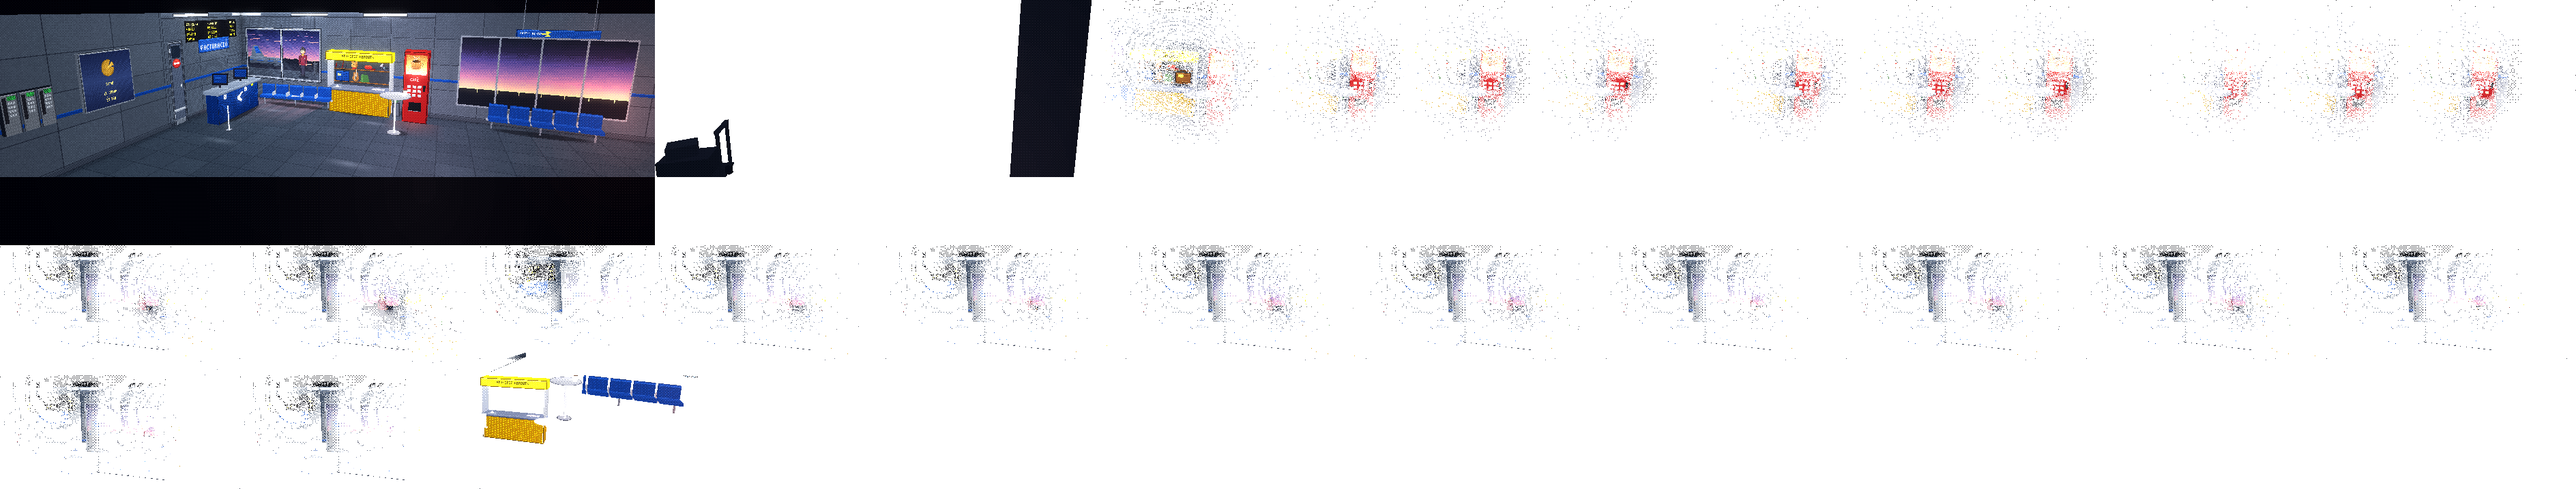
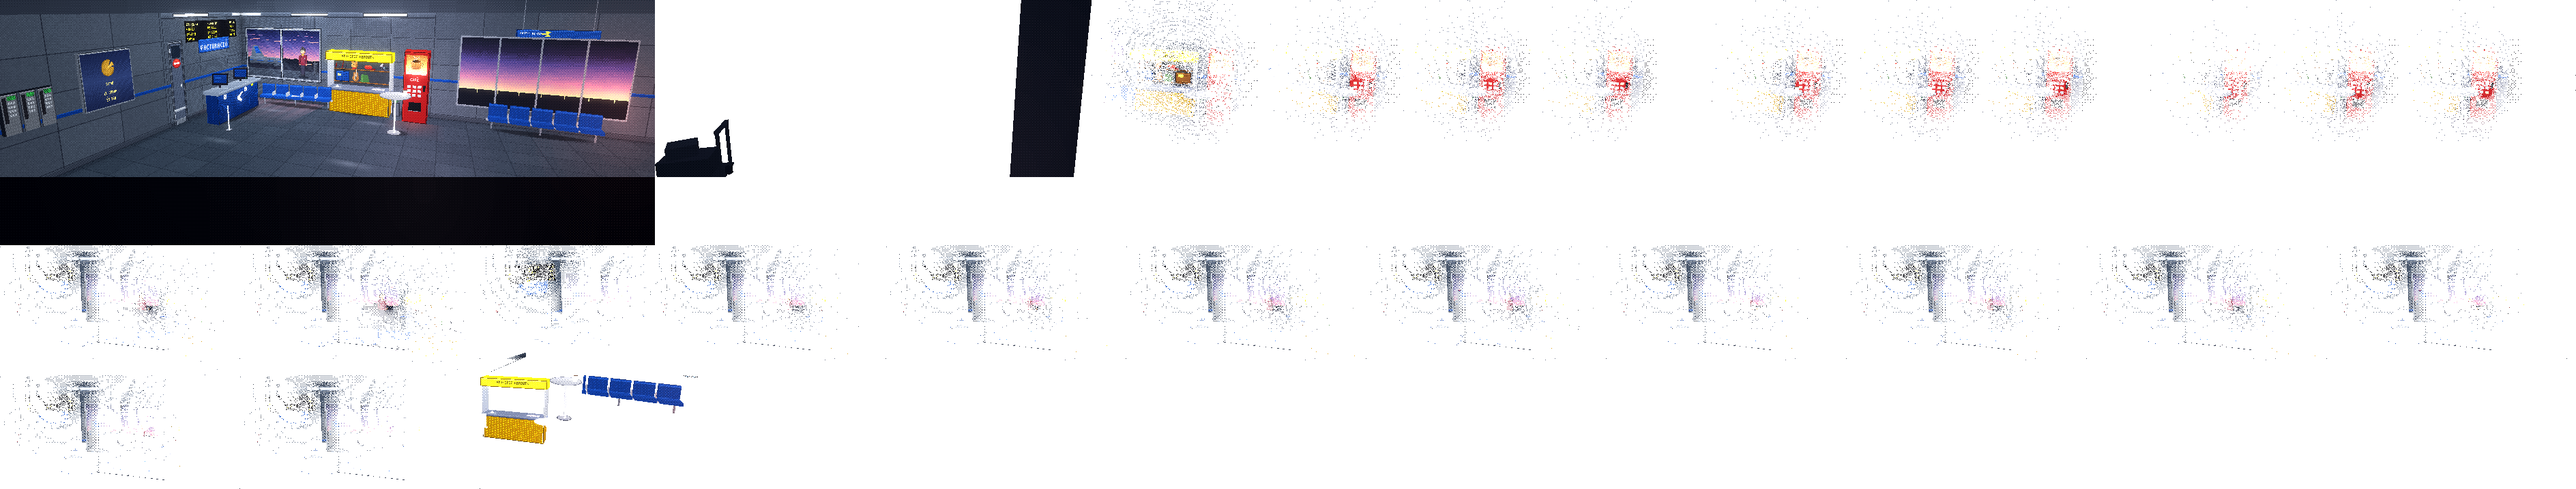
Suma Zero: cap franja negra a dalt de les sales de l'aeroport
A la terminal la càmera és més alta que les parets i en veia el buit per sobre: ara el formigó continua fins a un
sostre fosc. A la sala de personal, el sostre arriba fins a la càmera. Tasca 020.

diff --git a/games/suma-zero/adapters/benne/tools/hd640/rooms/aeroport_terminal.py b/games/suma-zero/adapters/benne/tools/hd640/rooms/aeroport_terminal.py
@@ -348,6 +348,15 @@ def escena(cv, tex, estat=frozenset()):
     e = Escena(cv, CAM, LLUMS, ambient=-0.6)
     zn = CAM.pos[2] + 60
     parets, coses = tex['parets'], tex['coses']
+    # per sobre de les parets (la càmera és més alta que elles): el formigó continua fins a un sostre fosc, perquè a
+    # dalt de la pantalla no quedi un buit negre
+    zc = CAM.pos[2] + 4
+    alt = HW + 140
+    e.quad('sostre', (0, alt, zc), (XR, alt, zc), (XR, alt, ZW), (0, alt, ZW), ramp=CONC, lvl=1.6, dues_cares=True)
+    e.quad('paret_fons_alta', (0, alt, ZW), (XR, alt, ZW), (XR, HW, ZW), (0, HW, ZW), ramp=CONC,
+           lvl=lambda s, t, P: 2.0 + 1.2 * min(1.0, t / 140))
+    e.quad('paret_esq_alta', (0, alt, zc), (0, alt, ZW), (0, HW, ZW), (0, HW, zc), ramp=CONC,
+           lvl=lambda s, t, P: 1.8 + 1.0 * min(1.0, t / 140))
     # la paret de l'esquerra (x = 0): de prop, formigó; cap a la cantonada, el dibuix pla (x 0..215)
     _paret_proc(e, 'paret_esq_prop', (0, HW, zn), (0, HW, ZW - XL), (0, 0, ZW - XL), (0, 0, zn), 5)
     e.quad('paret_esq', (0, HW, ZW - XL), (0, HW, ZW), (0, 0, ZW), (0, 0, ZW - XL), tex=(parets, (0, 0, XL, HW)))

diff --git a/games/suma-zero/adapters/benne/tools/hd640/rooms/aeroport_personal.py b/games/suma-zero/adapters/benne/tools/hd640/rooms/aeroport_personal.py
@@ -279,7 +279,9 @@ def escena(cv, tex, estat=frozenset()):
         sx, sz = SOLER
         e.sprite('soler', _soler(), (34, 111), (sx, TERM_Y, sz))
     # ── el sostre i les parets ──
-    e.quad('sostre', (0, HW, zn), (XR, HW, zn), (XR, HW, ZW), (0, HW, ZW), ramp=CONC, lvl=2.6, dues_cares=True)
+    # (el sostre arriba fins a la càmera: si no, a dalt de la pantalla quedava una franja negra)
+    zc = CAM.pos[2] + 4
+    e.quad('sostre', (0, HW, zc), (XR, HW, zc), (XR, HW, ZW), (0, HW, ZW), ramp=CONC, lvl=2.6, dues_cares=True)
     # la paret del vidre (x = 0): de prop, bloc; cap a la cantonada, el dibuix pla (amb el forat del vidre)
     e.quad('paret_esq_prop', (0, HW, zn), (0, HW, ZW - XL), (0, 0, ZW - XL), (0, 0, zn), ramp=BLOCK, lvl=_bloc())
     e.quad('paret_esq', (0, HW, ZW - XL), (0, HW, ZW), (0, 0, ZW), (0, 0, ZW - XL), tex=(paret, (0, 0, XL, HW)))
